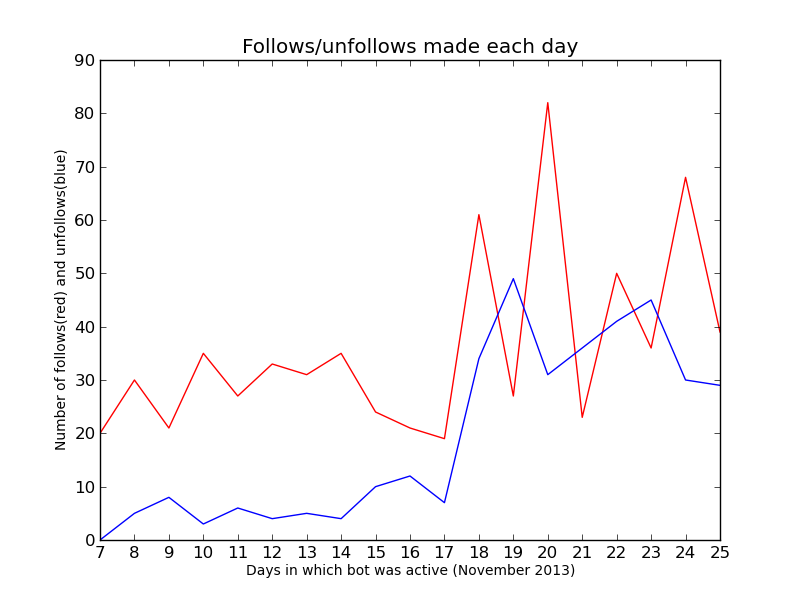
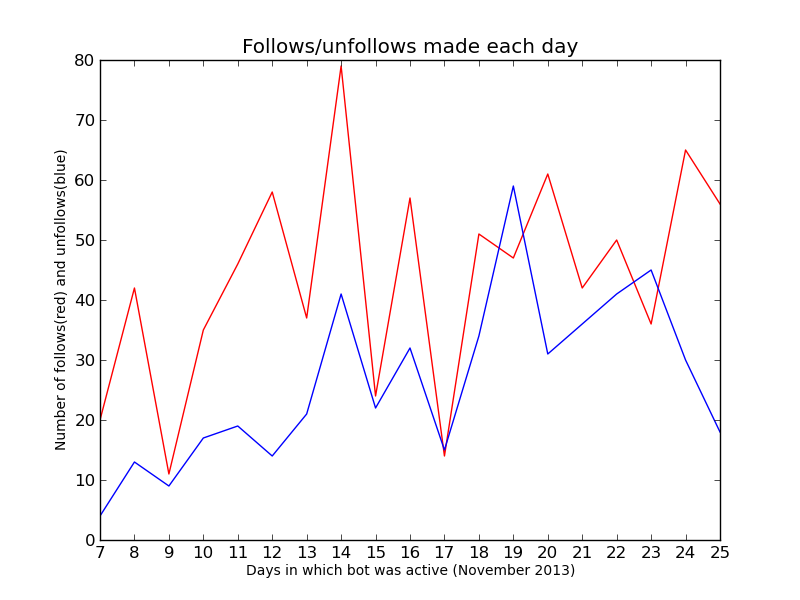
changed values for foll/rem + new plot

diff --git a/src/plotting.py b/src/plotting.py
@@ -59,17 +59,19 @@ def histogram3(y_uptime,y_meaning,given_title,filename):
 
 #y_fol = [20,30,21,35,27,33,31,35,24,21,19,61,27,82,23,50,36,68,39]#550+20+25+20+30+20+22
 #y_unfol = [0,5,8,3,6,4,5,4,10,12,7,34,49,31,36,41,45,30,29]#359 -> 150 foll din refollow (+ ce mai sunt extra))
-#histogram(y_fol,y_unfol,"Number of follows(red) and unfollows(blue)","Follows/unfollows made each day","fol_unfol.png")
+y_fol = [20,42,11,35,46,58,37,79,24,57,14,51,47,61,42,50,36,65,56]#831 + 77
+y_unfol = [4,13,9,17,19,14,21,41,22,32,15,34,59,31,36,41,45,30,18]#501 -> 
+histogram(y_fol,y_unfol,"Number of follows(red) and unfollows(blue)","Follows/unfollows made each day","fol_unfol.png")
 
 #y_fol = [3,1,3,1,1,1,1,1,3,0,2,0,1,1,1,1,2,2,4]#550+20+25+20+30+20+22
 #y_unfol = [1,2,3,1,2,3,3,2,1,2,1,4,0,2,2,2,3,4,2]#359 -> 150 foll din refollow (+ ce mai sunt extra))
 #histogram(y_fol,y_unfol,"Number of retweets(red) and tweets(blue)","Retweets/tweets made each day","rt_t.png")
 
-y_fol = [2,1,1,1,2,0,0,0,0,0,3,2,0,1,1,0,0,1,1]#550+20+25+20+30+20+22
+#y_fol = [2,1,1,1,2,0,0,0,0,0,3,2,0,1,1,0,0,1,1]#550+20+25+20+30+20+22
 #y_unfol = [0,0,0,1,1,2,0,0,0,0,0,1,0,0,0,2,1,5,1]#359 -> 150 foll din refollow (+ ce mai sunt extra))
 #y_ment = [0,0,0,1,4,0,0,1,0,0,0,1,0,0,0,1,1,1,3]
 #histogram2(y_fol,y_unfol,y_ment,"Number of retweets(red), favorites (blue) and mentions (black) received","Retweets/tweets/mentions from other users by day","inter.png")
 
 # TODO - add uptime values in minutes for days 7-25 Nov
-y_uptime = [138,124,214,260,246,301,289,421,392,462,473,512,442,617,430,532,505,560,494]
-histogram3(y_uptime,"Up-time values (minutes)","Overview of bot up-time","up_time.png")
+#y_uptime = [138,124,214,260,246,301,289,421,392,462,473,512,442,617,430,532,505,560,494]
+#histogram3(y_uptime,"Up-time values (minutes)","Overview of bot up-time","up_time.png")
